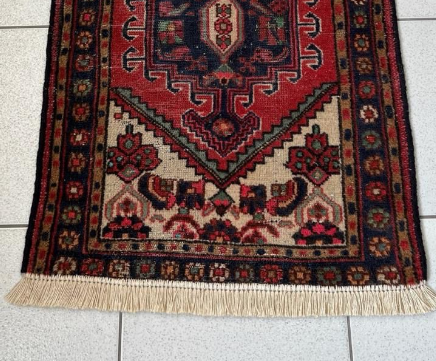
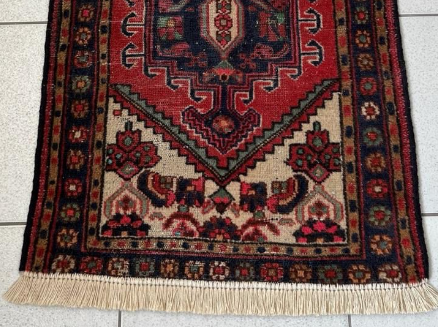
update6

diff --git a/index.html b/index.html
@@ -84,7 +84,7 @@
     <div class="container hero-content">
       <div>
         <h2>
-          Limpeza e impermeabilização de estofados, tapetes e cortinas
+          Restauração de tapetes orientais, limpeza e proteção para estofados e artigos decorativos
         </h2>
         <p>
           Deixe sua casa mais limpa, hipoalergênica e acolhedora.
@@ -103,30 +103,30 @@
 
       <div class="services-grid">
         <div class="card">
-          <img src="img/sofa.png" alt="Limpeza de Sofás">
-          <h4>Limpeza de Sofás</h4>
-          <p>Seu sofá limpo, renovado e hipoalergênico.</p>
+          <img src="img/tapete.png" alt="Limpeza de Sofás">
+          <h4>Restauração e limpeza de tapetes orientais</h4>
+          <p>Seu tapete limpo e renovado.</p>
           <a href="https://wa.me/554884060951" target="_blank">Quero um orçamento</a>
         </div>
 
         <div class="card">
           <img src="img/colchao.png" alt="Limpeza de Colchões">
-          <h4>Limpeza de Colchões</h4>
+          <h4>Limpeza e proteção para estofados</h4>
           <p>Elimine ácaros e sujeiras profundas.</p>
           <a href="https://wa.me/554884060951" target="_blank">Quero um orçamento</a>
         </div>
 
         <div class="card">
-          <img src="img/tapete.png" alt="Limpeza de Tapetes">
-          <h4>Limpeza de Tapetes</h4>
-          <p>Tapetes higienizados e livres de impurezas.</p>
+          <img src="img/cortina.png" alt="Limpeza de Tapetes">
+          <h4>Limpeza de cortinas e persianas</h4>
+          <p>Cortinas e persianas higienizados e livres de impurezas.</p>
           <a href="https://wa.me/554884060951" target="_blank">Quero um orçamento</a>
         </div>
 
         <div class="card">
-          <img src="img/cortina.png" alt="Limpeza de Cortinas">
-          <h4>Limpeza de Cortinas</h4>
-          <p>Cortinas limpas sem acúmulo de poeira.</p>
+          <img src="img/corte.png" alt="Limpeza de Cortinas">
+          <h4>Limpeza e recorte/reparo de tapetes industriais</h4>
+          <p>Serviços de Limpeza, Recorte e Reparo de Tapetes Industriais.</p>
           <a href="https://wa.me/554884060951" target="_blank">Quero um orçamento</a>
         </div>
       </div>

diff --git a/resultados.html b/resultados.html
@@ -281,7 +281,7 @@
           </div>
           <div class="result-info">
             <h4>Tapete Persa</h4>
-            <p>Carpete persa restaurado com limpeza especializada, eliminação de manchas, recuperação da aparência original e aplicação de impermeabilizante para maior durabilidade.</p>
+            <p>Limpeza e restauração das franjas, cordões laterais e tingimento da cor, feito por especialistas paquistaneses</p>
           </div>
         </div>
 
